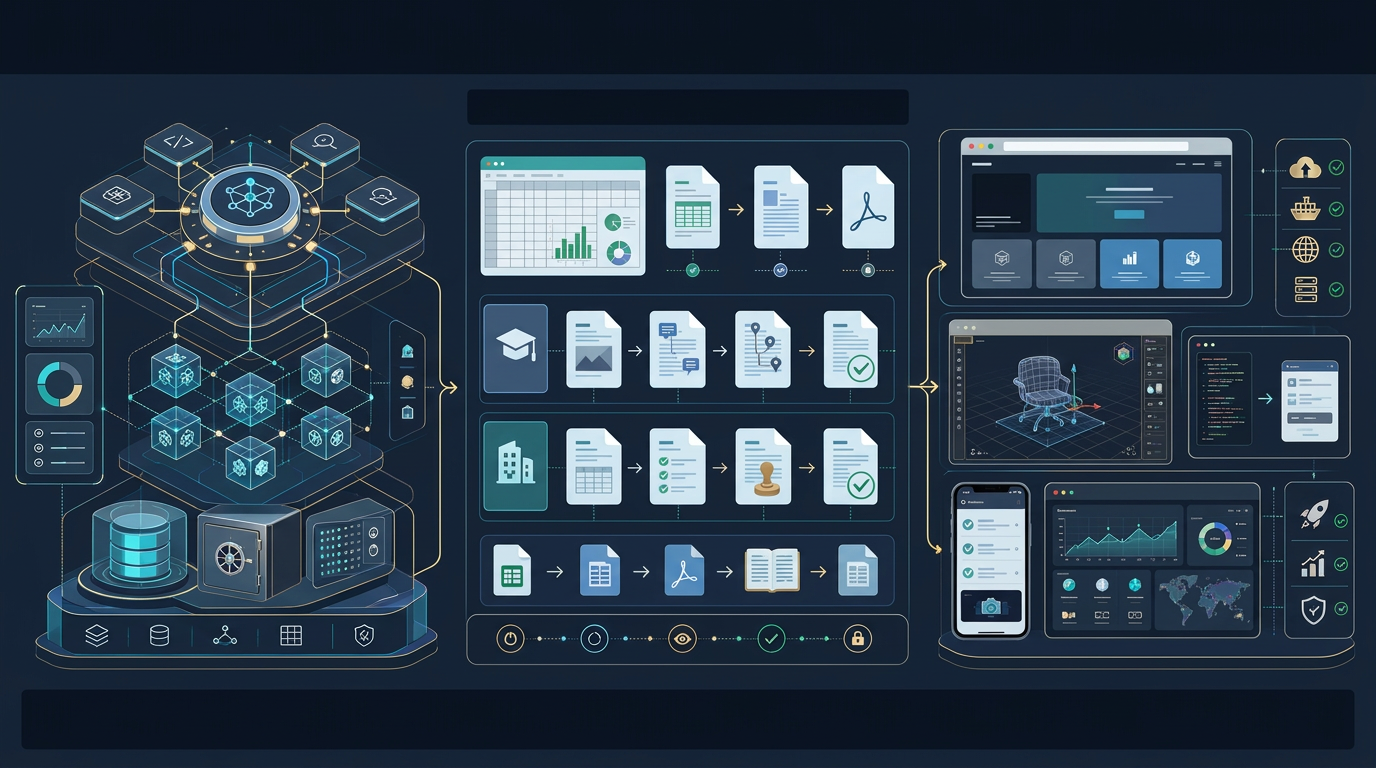
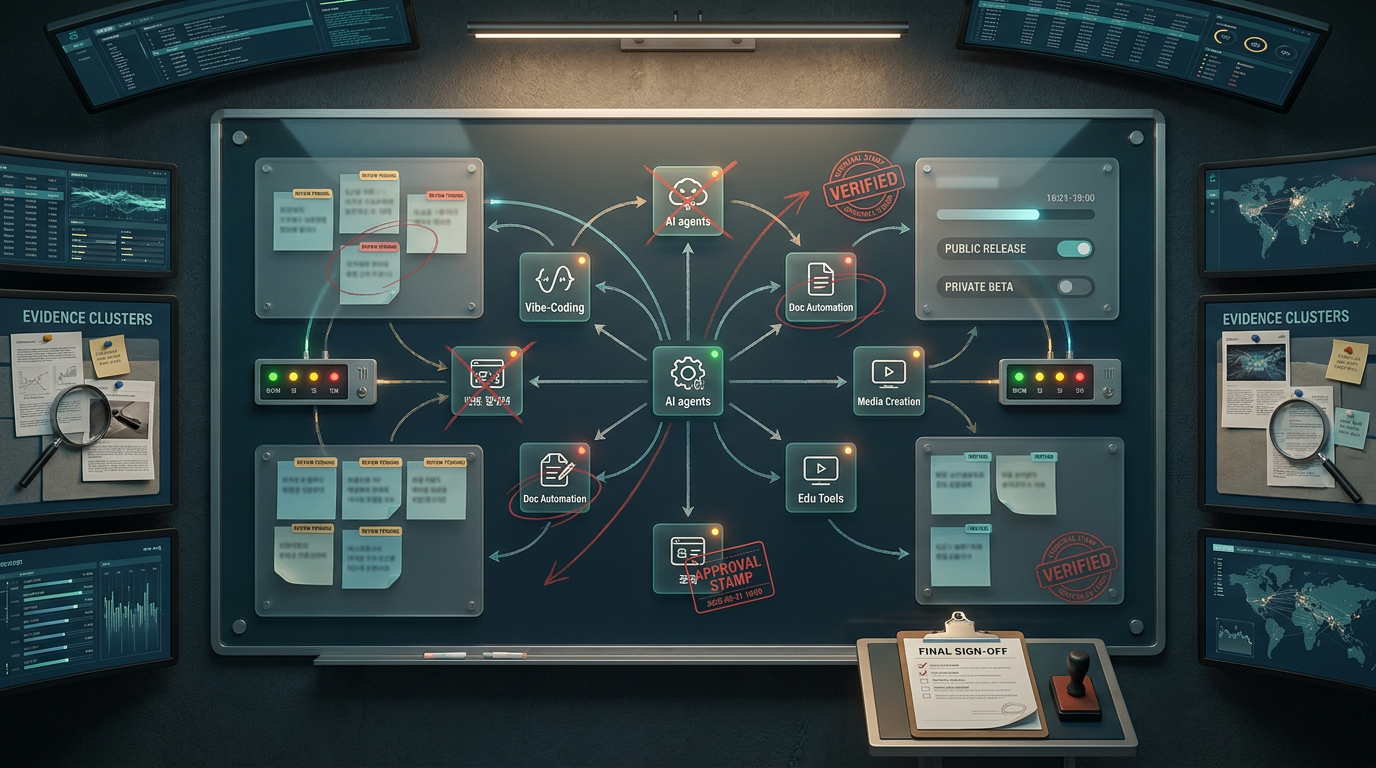
[verified] Replace August 21 infographic with distinct Lovart editorial board version

diff --git a/content/corner-of-the-corner/2026-08-21-workflows-stand-out-before-link-verification-finishes-release-40.md b/content/corner-of-the-corner/2026-08-21-workflows-stand-out-before-link-verification-finishes-release-40.md
@@ -19,17 +19,17 @@ cssclasses:
 
 <section class="release-infographic">
   <figure class="release-infographic__figure">
-    <img alt="왼쪽은 에이전트 운영 구조, 가운데는 공개 링크 검증과 문서 흐름, 오른쪽은 대시보드와 실행 화면, 하단은 사람의 최종 검토층을 보여주는 인포그래픽" src="./2026-08-21-workflows-stand-out-before-link-verification-finishes-release-40-infographic.png" />
-    <figcaption>이번 40선은 새 도구 이름보다, 공개 가능한 링크 상태를 가르고 에이전트 작업 흐름을 연결한 뒤 실제 결과물 화면까지 이어 가는 운영 구조가 더 본체가 되고 있음을 보여준다.</figcaption>
+    <img alt="중앙의 검증 보드에서 AI 에이전트와 공개 상태가 방사형으로 연결되고, 주변에는 증거 클러스터와 검토 화면, 하단에는 최종 승인 보드가 놓인 인포그래픽" src="./2026-08-21-workflows-stand-out-before-link-verification-finishes-release-40-infographic.png" />
+    <figcaption>이번 40선은 잘 정리된 파이프라인 한 줄보다, 공개 가능 여부와 검토 증거와 실행 흐름을 한 보드 위에서 끝까지 관리하는 편집국형 운영 감각이 더 중요해지고 있음을 보여준다.</figcaption>
   </figure>
   <div class="release-infographic__summary">
-    <p class="release-infographic__eyebrow">Release 40 Workflow</p>
-    <p class="release-infographic__lead">이번 인포그래픽은 왼쪽의 에이전트 운영층, 가운데의 공개 링크 검증과 문서 흐름, 오른쪽의 실행 가능한 결과물 표면, 아래의 인간 검토층이 한 체계로 이어진다는 점을 한눈에 읽히도록 다시 묶었다.</p>
+    <p class="release-infographic__eyebrow">Release 40 Editorial Board</p>
+    <p class="release-infographic__lead">이번 인포그래픽은 중앙 검증 보드를 기준으로 공개 가능 링크, 에이전트 작업, 문서 자동화, 미디어 제작, 교육 도구, 인간 승인 절차가 방사형으로 얽혀 있다는 점을 편집국 벽면 보드처럼 보이도록 다시 설계했다.</p>
     <ul class="release-infographic__points">
-      <li><strong>운영 구조</strong> 모델 비교보다 스킬, MCP, 라우팅, 멀티에이전트 운영이 실제 본체처럼 커진다.</li>
-      <li><strong>검증과 공개 상태</strong> 링크를 모으는 일보다 무엇이 지금 바로 공유 가능하고 무엇이 미검증인지 분리하는 습관이 중요해진다.</li>
-      <li><strong>실행 가능한 표면</strong> 문서, 대시보드, 교육 도구, 미디어 제작 흐름이 읽는 정보가 아니라 바로 열어 쓰는 작업면으로 바뀐다.</li>
-      <li><strong>인간 판단층</strong> 마지막 신뢰는 자동 생성이 아니라 검토, 확인, 승인 같은 사람의 마감 판단에서 결정된다.</li>
+      <li><strong>중앙 검증 허브</strong> 이번 흐름의 중심은 모델 이름이 아니라 어떤 항목이 검증됐고 어떤 항목이 아직 보류인지 가르는 관리판이다.</li>
+      <li><strong>증거 클러스터</strong> 원본 링크, 공개 상태, 미완료 항목, 참고 메모가 주변 패널에 묶여 있어 큐레이션이 기록 자산처럼 보인다.</li>
+      <li><strong>방사형 작업면</strong> AI 에이전트, 바이브코딩, 문서 자동화, 미디어 제작, 교육 도구가 하나의 직선 파이프라인이 아니라 서로 영향을 주는 다중 작업면으로 읽힌다.</li>
+      <li><strong>최종 승인층</strong> 마지막 신뢰는 자동 생성이 아니라 승인 도장, 체크리스트, 최종 사인오프 같은 사람의 마감 행위에서 완성된다.</li>
     </ul>
   </div>
 </section>
